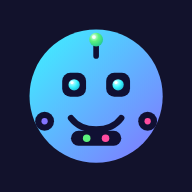
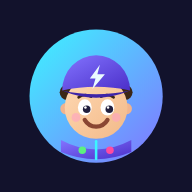
Substitui a mascote robô por um miúdo gamer, inspirado nas referências do utilizador
O favicon/ícones e o mascote do hero passam de uma cara-robô azul para um
miúdo com boné (raio de "power-up"), a segurar um comando de jogos,
mantendo a paleta neon ciano/roxo já usada no site. O SVG mestre
(icons/mascot.svg) é a fonte de todos os favicons/ícones gerados
anteriormente; o hero em index.html ganha uma versão maior com braços e
comando, deixando de ficar recortado num círculo perfeito para poder
"sair" da moldura como nas referências.

Claude-Session: https://claude.ai/code/session_01HNXi4kv5Dr9PVkoZAqHKvd

Changed region(s): [[0.3125, 0.1562, 0.7188, 0.8438], [0.7188, 0.5625, 0.8438, 0.6875], [0.1562, 0.5625, 0.2812, 0.6875]]

diff --git a/index.html b/index.html
@@ -35,7 +35,7 @@
       <div class="hero-inner">
         <svg
           class="mascot"
-          viewBox="0 0 220 220"
+          viewBox="0 0 240 268"
           role="img"
           aria-label="Mascote GameStudios Lab"
         >
@@ -44,54 +44,67 @@
               <stop offset="0%" stop-color="#3bf5ff" />
               <stop offset="100%" stop-color="#8374ff" />
             </linearGradient>
-            <radialGradient id="orb" cx="35%" cy="30%" r="75%">
-              <stop offset="0%" stop-color="#eafff2" />
-              <stop offset="45%" stop-color="#5cf27e" />
-              <stop offset="100%" stop-color="#22c98f" />
-            </radialGradient>
-            <radialGradient id="eyeGlow" cx="35%" cy="30%" r="75%">
-              <stop offset="0%" stop-color="#d9fbff" />
-              <stop offset="55%" stop-color="#3bf5ff" />
-              <stop offset="100%" stop-color="#1fb8d6" />
-            </radialGradient>
+            <linearGradient id="skin" x1="0%" y1="0%" x2="100%" y2="100%">
+              <stop offset="0%" stop-color="#ffd9b3" />
+              <stop offset="100%" stop-color="#f2b989" />
+            </linearGradient>
+            <linearGradient id="cap" x1="0%" y1="0%" x2="100%" y2="100%">
+              <stop offset="0%" stop-color="#8374ff" />
+              <stop offset="100%" stop-color="#4b2fc9" />
+            </linearGradient>
+            <linearGradient id="hoodie" x1="0%" y1="0%" x2="100%" y2="100%">
+              <stop offset="0%" stop-color="#9285ff" />
+              <stop offset="100%" stop-color="#4b2fc9" />
+            </linearGradient>
           </defs>
 
-          <circle cx="110" cy="110" r="106" fill="url(#bg)" />
+          <circle cx="120" cy="112" r="106" fill="url(#bg)" />
 
-          <line
-            x1="110"
-            y1="46"
-            x2="110"
-            y2="26"
-            stroke="#101033"
-            stroke-width="9"
-            stroke-linecap="round"
-          />
-          <circle cx="110" cy="20" r="11" fill="url(#orb)" />
-          <circle cx="106.5" cy="16" r="3" fill="#ffffff" opacity="0.85" />
+          <path d="M60,190 Q40,215 55,240 Q70,250 90,238 L96,214 Z" fill="url(#hoodie)" />
 
-          <circle cx="28" cy="150" r="15" fill="#101033" />
-          <circle cx="28" cy="150" r="5" fill="#8374ff" />
-          <circle cx="192" cy="150" r="15" fill="#101033" />
-          <circle cx="192" cy="150" r="5" fill="#ff4b9f" />
+          <path d="M62,182 Q120,222 178,182 L188,246 Q120,268 52,246 Z" fill="url(#hoodie)" />
+          <line x1="120" y1="188" x2="120" y2="240" stroke="#3bf5ff" stroke-width="5" stroke-linecap="round" />
+          <circle cx="98" cy="206" r="6" fill="#5cf27e" />
+          <circle cx="142" cy="206" r="6" fill="#ff4b9f" />
 
-          <rect x="56" y="73" width="38" height="38" rx="13" fill="#101033" />
-          <rect x="126" y="73" width="38" height="38" rx="13" fill="#101033" />
-          <circle cx="75" cy="92" r="9" fill="url(#eyeGlow)" />
-          <circle cx="145" cy="92" r="9" fill="url(#eyeGlow)" />
-          <circle cx="71.5" cy="88.5" r="2.6" fill="#ffffff" opacity="0.9" />
-          <circle cx="141.5" cy="88.5" r="2.6" fill="#ffffff" opacity="0.9" />
+          <path d="M180,190 Q202,212 190,238 Q175,250 154,236 L150,212 Z" fill="url(#cap)" />
 
-          <path
-            d="M70 145c18 24 62 24 80 0"
-            stroke="#101033"
-            stroke-width="10"
-            stroke-linecap="round"
-            fill="none"
-          />
-          <rect x="70" y="165" width="80" height="24" rx="12" fill="#101033" />
-          <circle cx="95" cy="177" r="6" fill="#5cf27e" />
-          <circle cx="125" cy="177" r="6" fill="#ff4b9f" />
+          <circle cx="92" cy="240" r="15" fill="url(#skin)" />
+          <circle cx="150" cy="238" r="15" fill="url(#skin)" />
+
+          <rect x="82" y="222" width="78" height="40" rx="18" fill="#101033" />
+          <rect x="98" y="236" width="16" height="6" rx="3" fill="#2a2a55" />
+          <rect x="103" y="231" width="6" height="16" rx="3" fill="#2a2a55" />
+          <circle cx="138" cy="234" r="5" fill="#5cf27e" />
+          <circle cx="150" cy="242" r="5" fill="#ff4b9f" />
+
+          <circle cx="72" cy="106" r="13" fill="#3c2716" />
+          <circle cx="168" cy="106" r="13" fill="#3c2716" />
+
+          <circle cx="70" cy="132" r="9" fill="#f0b48f" />
+          <circle cx="170" cy="132" r="9" fill="#f0b48f" />
+
+          <circle cx="120" cy="130" r="52" fill="url(#skin)" />
+
+          <circle cx="87" cy="147" r="7" fill="#ff9fc7" opacity="0.55" />
+          <circle cx="153" cy="147" r="7" fill="#ff9fc7" opacity="0.55" />
+
+          <path d="M91,113 Q101,106 111,112" stroke="#3c2716" stroke-width="4" fill="none" stroke-linecap="round" />
+          <path d="M129,112 Q139,106 149,113" stroke="#3c2716" stroke-width="4" fill="none" stroke-linecap="round" />
+
+          <ellipse cx="101" cy="130" rx="11" ry="13" fill="#ffffff" />
+          <ellipse cx="139" cy="130" rx="11" ry="13" fill="#ffffff" />
+          <circle cx="104" cy="133" r="6" fill="#211f3d" />
+          <circle cx="142" cy="133" r="6" fill="#211f3d" />
+          <circle cx="102" cy="130" r="2" fill="#ffffff" />
+          <circle cx="140" cy="130" r="2" fill="#ffffff" />
+
+          <path d="M101,150c8,14 28,14 36,0" stroke="#8a4632" stroke-width="7" stroke-linecap="round" fill="none" />
+
+          <path d="M65,103 Q120,127 175,103 Q120,116 65,103 Z" fill="#3d24a8" />
+          <path d="M65,103 A55,57 0 0 1 175,103 Q120,91 65,103 Z" fill="url(#cap)" />
+          <ellipse cx="105" cy="72" rx="20" ry="7" fill="#ffffff" opacity="0.18" />
+          <path d="M126,62 L110,84 L119,84 L114,101 L134,77 L122,77 Z" fill="#eafcff" />
         </svg>
         <div class="hero-copy">
           <p class="brand-kicker">MarquitosPT</p>

diff --git a/styles.css b/styles.css
@@ -128,11 +128,10 @@ a {
 }
 
 .mascot {
-  width: 130px;
-  height: 130px;
+  width: 150px;
+  height: 167px;
   flex-shrink: 0;
-  border-radius: 50%;
-  box-shadow: 0 0 30px rgba(59, 245, 255, 0.45);
+  filter: drop-shadow(0 0 22px rgba(59, 245, 255, 0.45));
 }
 
 .hero-copy h1 {
